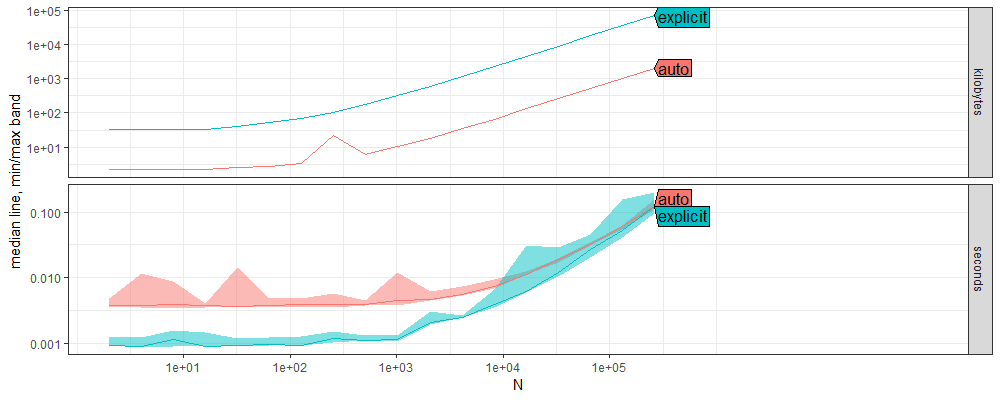
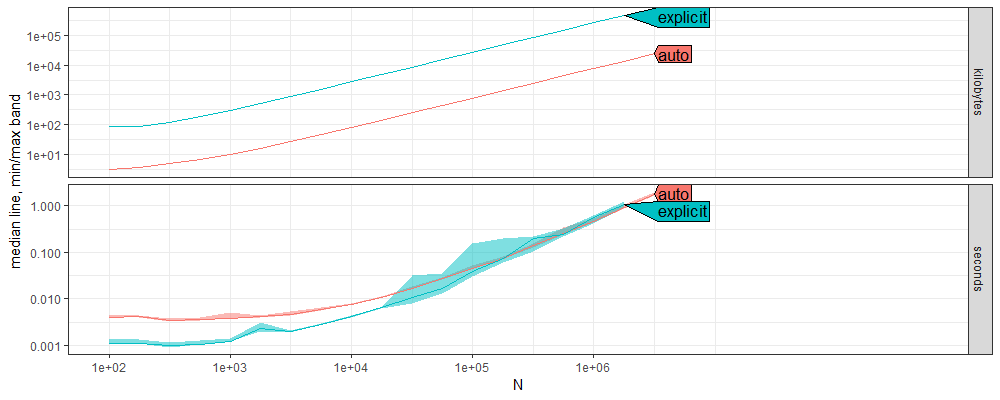
atime 1 second max

diff --git a/_posts/2024-10-28-auto-grad-overhead.md b/_posts/2024-10-28-auto-grad-overhead.md
@@ -235,6 +235,13 @@ label_vec = c(0, 1)
 pred_diff_vec = seq(-3, 3, by=0.5)
 aum_grad_dt_list = list()
 library(data.table)
+```
+
+```
+## data.table 1.16.99 IN DEVELOPMENT built 2024-10-18 20:05:08 UTC using 3 threads (see ?getDTthreads).  Latest news: r-datatable.com
+```
+
+``` r
 for(pred_diff in pred_diff_vec){
   pred_vec = c(0, pred_diff)
   pred_tensor = torch::torch_tensor(pred_vec)
@@ -366,6 +373,7 @@ for computing gradients.
 
 ``` r
 a_res <- atime::atime(
+  N=10^seq(2,7,by=0.25),
   setup={
     set.seed(1)
     pred_vec = rnorm(N)
@@ -385,16 +393,24 @@ a_res <- atime::atime(
     rowMeans(aum.info$derivative_mat)
   },
   result = TRUE,
-  seconds.limit=0.1
+  seconds.limit=1
 )
 ```
 
 ```
 ## Warning: Some expressions had a GC in every iteration; so filtering is disabled.
+## Warning: Some expressions had a GC in every iteration; so filtering is disabled.
+## Warning: Some expressions had a GC in every iteration; so filtering is disabled.
+## Warning: Some expressions had a GC in every iteration; so filtering is disabled.
+## Warning: Some expressions had a GC in every iteration; so filtering is disabled.
 ```
 
 ``` r
 plot(a_res)
+```
+
+```
+## Loading required namespace: directlabels
 ```
 
 ![plot of chunk atimeGrad](/assets/img/2024-10-28-auto-grad-overhead/atimeGrad-1.png)
@@ -418,31 +434,18 @@ result_wide <- dcast(
 , equal := paste(all.equal(auto, explicit))
 , by=N
 ][]
+```
+
+```
+## Error in `[.data.table`(dcast(a_res$measurements, N ~ expr.name, value.var = "result"), : Supplied 3 items to be assigned to group 19 of size 1 in column 'equal'. The RHS length must either be 1 (single values are ok) or match the LHS length exactly. If you wish to 'recycle' the RHS please use rep() explicitly to make this intent clear to readers of your code.
+```
+
+``` r
 tibble::tibble(result_wide)
 ```
 
 ```
-## # A tibble: 18 × 4
-##         N auto            explicit        equal
-##     <int> <list>          <list>          <chr>
-##  1      2 <dbl [2]>       <dbl [2]>       TRUE 
-##  2      4 <dbl [4]>       <dbl [4]>       TRUE 
-##  3      8 <dbl [8]>       <dbl [8]>       TRUE 
-##  4     16 <dbl [16]>      <dbl [16]>      TRUE 
-##  5     32 <dbl [32]>      <dbl [32]>      TRUE 
-##  6     64 <dbl [64]>      <dbl [64]>      TRUE 
-##  7    128 <dbl [128]>     <dbl [128]>     TRUE 
-##  8    256 <dbl [256]>     <dbl [256]>     TRUE 
-##  9    512 <dbl [512]>     <dbl [512]>     TRUE 
-## 10   1024 <dbl [1,024]>   <dbl [1,024]>   TRUE 
-## 11   2048 <dbl [2,048]>   <dbl [2,048]>   TRUE 
-## 12   4096 <dbl [4,096]>   <dbl [4,096]>   TRUE 
-## 13   8192 <dbl [8,192]>   <dbl [8,192]>   TRUE 
-## 14  16384 <dbl [16,384]>  <dbl [16,384]>  TRUE 
-## 15  32768 <dbl [32,768]>  <dbl [32,768]>  TRUE 
-## 16  65536 <dbl [65,536]>  <dbl [65,536]>  TRUE 
-## 17 131072 <dbl [131,072]> <dbl [131,072]> TRUE 
-## 18 262144 <dbl [262,144]> <dbl [262,144]> TRUE
+## Error: object 'result_wide' not found
 ```
 
 Note that we used `torch::torch_tensor(pred_vec, "double")` above, for
@@ -464,20 +467,7 @@ result_wide[
 ```
 
 ```
-## Key: <N>
-##              N          auto      explicit  equal  diff
-##          <int>         <num>         <num> <char> <num>
-##      1: 262144  0.000000e+00  0.000000e+00   TRUE     0
-##      2: 262144  0.000000e+00  0.000000e+00   TRUE     0
-##      3: 262144  0.000000e+00  0.000000e+00   TRUE     0
-##      4: 262144  0.000000e+00  0.000000e+00   TRUE     0
-##      5: 262144  7.629395e-06  7.629395e-06   TRUE     0
-##     ---                                                
-## 262140: 262144  0.000000e+00  0.000000e+00   TRUE     0
-## 262141: 262144  0.000000e+00  0.000000e+00   TRUE     0
-## 262142: 262144 -7.629395e-06 -7.629395e-06   TRUE     0
-## 262143: 262144  0.000000e+00  0.000000e+00   TRUE     0
-## 262144: 262144  0.000000e+00  0.000000e+00   TRUE     0
+## Error in eval(expr, envir, enclos): object 'result_wide' not found
 ```
 
 Below we estimate the asymptotic complexity class,
@@ -500,7 +490,7 @@ We have shown how to compute our proposed AUM using R torch, and
 compared the computation time of torch auto-grad with "explicit
 gradients" from R package `aum`. We observed that there is some
 overhead to using torch, but asymptotically the two methods take the
-same/linear amount of time.
+same amount of time: log-linear `O(N log N)`, in number of samples `N`.
 
 ## Session info
 
@@ -531,7 +521,7 @@ sessionInfo()
 ## [1] ggplot2_3.5.1      data.table_1.16.99
 ## 
 ## loaded via a namespace (and not attached):
-##  [1] bit_4.0.5              gtable_0.3.5           dplyr_1.1.4            compiler_4.4.1         highr_0.11            
+##  [1] bit_4.0.5              gtable_0.3.5           highr_0.11             dplyr_1.1.4            compiler_4.4.1        
 ##  [6] tidyselect_1.2.1       Rcpp_1.0.13            callr_3.7.6            directlabels_2024.1.21 scales_1.3.0          
 ## [11] lattice_0.22-6         R6_2.5.1               labeling_0.4.3         generics_0.1.3         knitr_1.48            
 ## [16] tibble_3.2.1           munsell_0.5.1          atime_2024.10.5        pillar_1.9.0           rlang_1.1.4           
